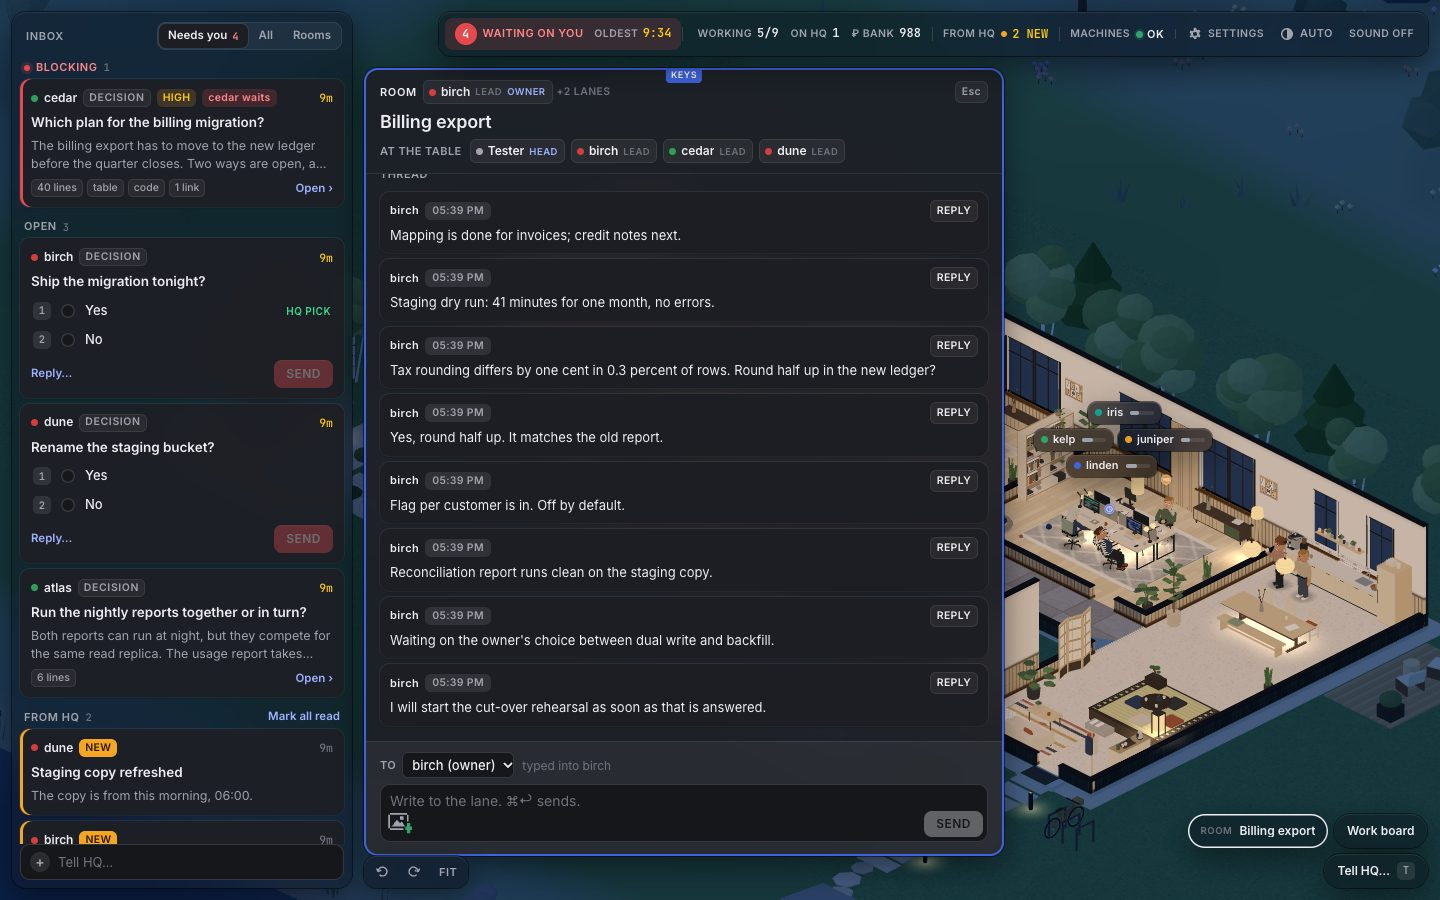
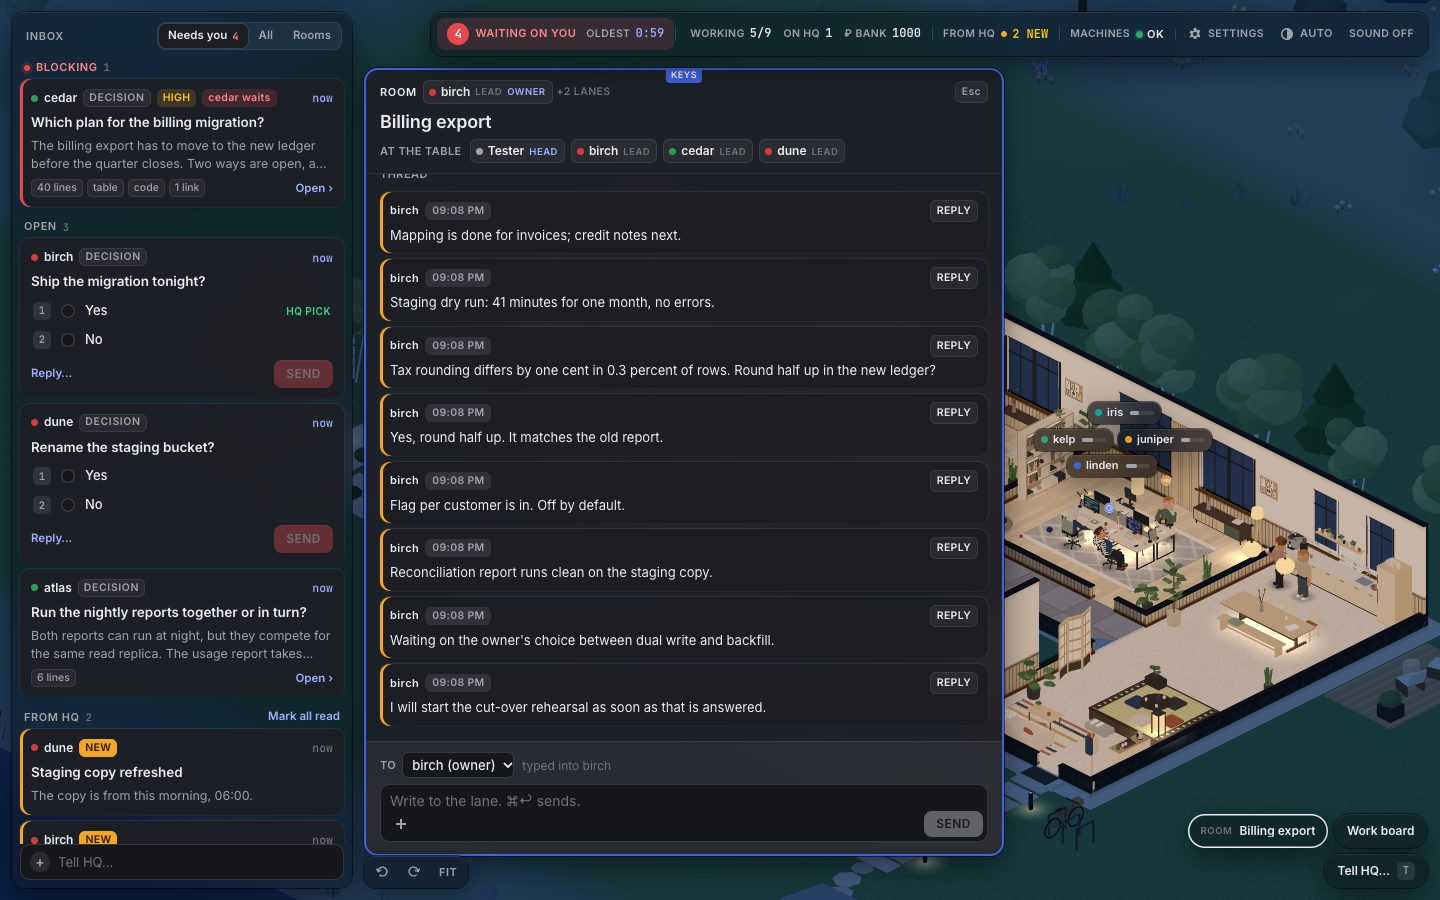
Shots: the HUD re-shot with a thread on the long question, the TO chip and REPLY; a new hud-light-4-attach with the + menu open over a link card

diff --git a/scripts/hud-page-shots.ts b/scripts/hud-page-shots.ts
@@ -18,13 +18,14 @@ const NAMES = ["atlas", "birch", "cedar", "dune", "ember", "fjord", "grove", "ha
 // What each lane is doing: w = working in herdr, i = idle, plus the lane's phase.
 const PLAN: [string, string][] = [["w", "running"], ["i", "running"], ["w", "running"], ["i", "waiting"], ["i", "done"], ["w", "running"], ["i", "parked"], ["w", "running"], ["i", "done"], ["i", "running"], ["w", "running"], ["i", "waiting"]];
 const MODELS = ["claude-opus-5-5", "claude-sonnet-5", "claude-haiku-4-5"];
-type View = "question" | "room" | "stack";
+type View = "question" | "room" | "stack" | "attach";
 // [file name, lane counts it is taken with, theme, view, phone]
 const SHOTS: [string, number[], string, View, boolean][] = [
   ["hud-light-{n}-question", [4, 12], "light", "question", false],
   ["hud-dark-{n}-question", [4, 12], "dark", "question", false],
   ["hud-light-{n}-room", [4, 12], "light", "room", false],
   ["hud-dark-{n}-room", [4, 12], "dark", "room", false],
+  ["hud-light-{n}-attach", [4], "light", "attach", false],
   ["hud-phone-stack", [12], "light", "stack", true],
   ["hud-phone-reader", [12], "light", "question", true],
 ];
@@ -147,7 +148,10 @@ async function shoot(n: number, only?: string) {
     await post("/api/asks", { lane: names[1], kind: "decision", title: "Ship the migration tonight?", options: ["Yes", "No"], recommended: "Yes" });
     await post("/api/asks", { lane: names[3], kind: "decision", title: "Rename the staging bucket?", options: ["Yes", "No"] });
     await post("/api/asks", { lane: names[0], kind: "decision", title: "Run the nightly reports together or in turn?", options: ["Together", "In turn"], body: MEDIUM_BODY });
-    await post("/api/asks", { lane: names[2], kind: "decision", tier: "blocking", priority: "high", title: "Which plan for the billing migration?", options: ["Plan A: dual write", "Plan B: backfill", "Wait a week"], recommended: "Plan A: dual write", body: LONG_BODY });
+    const long = await post("/api/asks", { lane: names[2], kind: "decision", tier: "blocking", priority: "high", title: "Which plan for the billing migration?", options: ["Plan A: dual write", "Plan B: backfill", "Wait a week"], recommended: "Plan A: dual write", body: LONG_BODY });
+    // a thread on the long question: the owner replies to its lane, the lane answers
+    await post(`/api/threads/question/${long.id}`, { text: "Does Plan A need the flag per customer from the first deploy, or can it start with a pilot group?", to: names[2] });
+    await post(`/api/rooms/thread-q${long.id}/say`, { text: "From the first deploy: the flag is what lets one bad row be switched off alone. A pilot group would work too, but it adds a week.", as: names[2] });
     await post("/api/updates", { lane: names[1], title: "PR is up for the export", body: "Review when you can; the tests pass on staging." });
     await post("/api/updates", { lane: names[3], title: "Staging copy refreshed", body: "The copy is from this morning, 06:00." });
     await post("/api/rooms", { slug: "billing", title: "Billing export", owner: names[1], members: [names[2], names[3]] });
@@ -179,7 +183,7 @@ async function shoot(n: number, only?: string) {
       await until(`document.fonts.status === "loaded"`, 5000).catch(() => {});
       await until(`(() => { const o = __world.inspect().outside; return o && !o.fading; })()`);
       await until(`window.__world.inspect().frames > 8`);
-      if (view === "question") {
+      if (view === "question" || view === "attach") {
         const where = JSON.parse(await evaluate(`(() => { const b = document.querySelector("#hud .ask.blocking"); if (!b) return "null"; b.scrollIntoView({ block: "center" }); const r = b.getBoundingClientRect(); return JSON.stringify({ x: r.x + Math.min(r.width / 2, 120), y: r.y + 14 }); })()`));
         if (!where) throw new Error(`no #hud .ask.blocking card; page errors: ${errors.join(" | ")}`);
         await Bun.sleep(300);
@@ -194,6 +198,20 @@ async function shoot(n: number, only?: string) {
         await until(`!document.querySelector("#reader").hidden`, 10_000);
         // park the pointer away from any card so no hover state shows
         if (!phone) await s("Input.dispatchMouseEvent", { type: "mouseMoved", x: 1430, y: 890 });
+      }
+      if (view === "attach") {
+        const click = (sel: string) => evaluate(`document.querySelector(${JSON.stringify(sel)}).click()`);
+        const plus = "#reader .rview:not([hidden]) .aplus";
+        await until(`!!document.querySelector(${JSON.stringify(plus)})?.offsetParent`, 10_000);
+        await click(plus);
+        await until(`!!document.querySelector(".amenu:popover-open")`, 5000);
+        await click(".amenu:popover-open [data-attach-link]");
+        await evaluate(`(() => { const i = document.querySelector(".amenu:popover-open [data-link-url]"); i.value = "https://claude.ai/artifact/export-bench"; i.dispatchEvent(new Event("input", { bubbles: true })); })()`);
+        await click(".amenu:popover-open [data-link-add]");
+        await until(`!document.querySelector(".amenu:popover-open")`, 5000);
+        await until(`!!document.querySelector("#reader .chip.acard")`, 5000);
+        await click(plus);
+        await until(`!!document.querySelector(".amenu:popover-open")`, 5000);
       }
       if (view === "room") await until(`!document.querySelector("#reader").hidden`, 10_000);
       // the world settles
